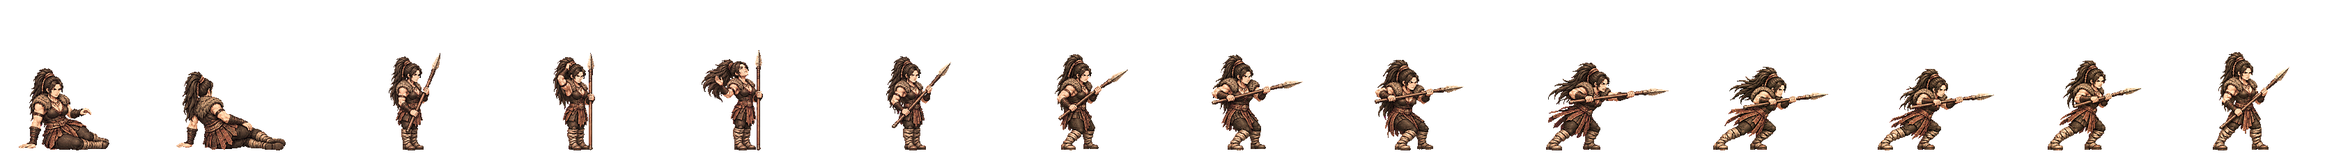
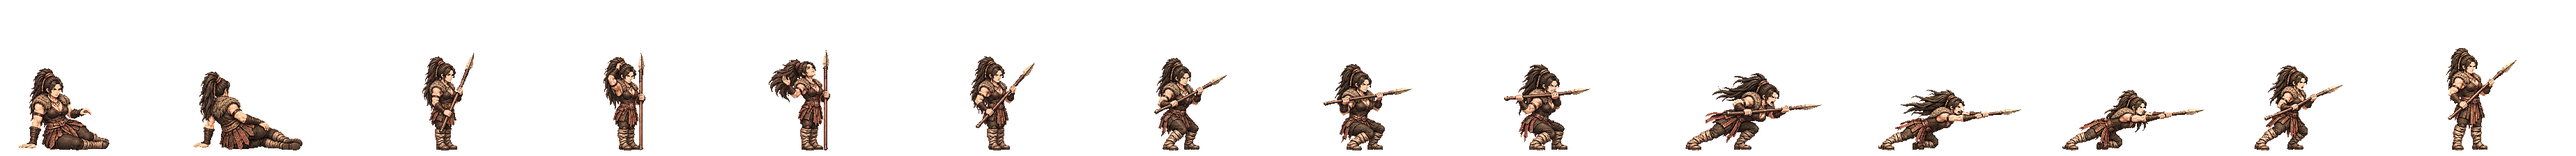
초팔 들메 창 찌르기를 새 인형으로 다시 · 걷기는 받은 그림 그대로
T11 · T12 를 받아 HEROES 에 src='thrust2', actw=264. 두 팔을 곧게 뻗은 찌름 · 앞발 여덟 칸 같은 자리(113~115). 끝 칸 키 147 로 서기 138 보다 조금 크다. 띠 검사 합격(경고: 서기 발 가운데 +21 · 걷기 윗몸 2.2% · 앞 여백 4px).

Claude-Session: https://claude.ai/code/session_01TRiuN7s6aDfSnaHxrkctmU

diff --git a/tools/sprite-kit/anim-harness.py b/tools/sprite-kit/anim-harness.py
@@ -47,13 +47,13 @@ HEROES = {
                   cells8=[('a', 1), ('a', 2), ('a', 3), ('a', 4), ('a', 4), ('a', 3), ('a', 2), ('a', 1)]),   # 해녀(작살) · 뒤 판 b 는 그림 도구가 거절 → 앞 판으로: 타격 = 넷째(a4) · wire-hero hit=3
     'huntress': dict(strip='gen-base-w-06-buyeo-huntress', atk='thrust', src='thrust2', actw=264, atk8=True, act=True, legacy=(('a', 2), ('a', 3), ('b', 3), ('b', 4))),   # 부여 사냥꾼(창)
     'dallae': dict(strip='gen-base-w-64-miri-dallae', atk='thrust', src='thrust2', actw=264, atk8=True, act=True, legacy=(('a', 2), ('a', 3), ('b', 3), ('b', 4))),   # 미리 군주 달래(창)
-    'ara': dict(strip='gen-ara', atk='slash', atk8=True, act=True, legacy=(('a', 1), ('a', 3), ('b', 2), ('b', 4))),   # 가야 검사 아라(한 손 칼) · 좁은 칸: 머리 위로 곧게 세운 a2 는 위가, 끝까지 벤 b1 은 앞이 넘친다
+    'ara': dict(atkk=1.05, strip='gen-ara', atk='slash', atk8=True, act=True, legacy=(('a', 1), ('a', 3), ('b', 2), ('b', 4))),   # 가야 검사 아라(한 손 칼) · 좁은 칸: 머리 위로 곧게 세운 a2 는 위가, 끝까지 벤 b1 은 앞이 넘친다
     'dtiger': dict(strip='gen-base-w-22-dongye-tiger-huntress', atk='thrust', src='thrust2', actw=264, atk8=True, act=True, legacy=(('a', 2), ('a', 3), ('b', 3), ('b', 4))),   # 동예 범 사냥꾼(창)
     'noeul': dict(strip='gen-noeul', atk='bow', atk8=False),   # 사로 노을(활)
     'sagong': dict(strip='gen-sagong', atk='thrust', atk8=True, act=True, legacy=(('a', 2), ('a', 3), ('b', 3), ('b', 4))),   # 사물 사공(두 손 노 · 찌르기)
     'songbi': dict(strip='gen-songbi', atk='bow', atk8=False),   # 비류나 송비(활)
     'sinneoul': dict(strip='gen-sinneoul', atk='thrust', atk8=True, act=True, legacy=(('a', 2), ('a', 3), ('b', 3), ('b', 4))),   # 신지 너울(두 손 갈고리 장대 · 가슴 XL)
-    'heo': dict(strip='gen-heo', atk='thrust', atk8=True, act=True, legacy=(('a', 2), ('a', 3), ('b', 3), ('b', 4))),   # 가락 허황옥(금빛 창 · 가슴 L)
+    'heo': dict(strip='gen-heo', atk='thrust', src='thrust2', actw=264, atk8=True, act=True, legacy=(('a', 2), ('a', 3), ('b', 3), ('b', 4))),   # 가락 허황옥(금빛 창 · 가슴 L)
     'mwarrior': dict(strip='gen-base-w-08-mahan-warrior', atk='thrust', atk8=True, act=True, legacy=(('a', 2), ('a', 3), ('b', 3), ('b', 4))),   # 마한 전사(창 · 우람한 뼈대)
     'whaleq': dict(strip='gen-base-w-23-usisan-whale-queen', atk='thrust', atk8=True, act=True, legacy=(('a', 2), ('a', 3), ('b', 3), ('b', 4))),   # 우시산 고래 여왕(미늘 작살 · 우람한 뼈대)
     'tomboy': dict(strip='gen-base-w-26-iseo-tomboy-general', atk='thrust', atk8=True, act=True, legacy=(('a', 2), ('a', 3), ('b', 3), ('b', 4))),   # 이서 말괄량이 장군(창 · 우람한 뼈대)
@@ -61,7 +61,7 @@ HEROES = {
     'tneoul': dict(strip='gen-tneoul', atk='thrust', atk8=True, act=True, legacy=(('a', 2), ('a', 3), ('b', 3), ('b', 4)), lock='face'),   # 탐라 너울(두 손 나무 노 · 가슴 L) · 머리 상자 묶기는 b-2 에서 얼굴 자리를 잘못 잡아 머리가 둘이 됐다(11-24) → 얼굴 안쪽만
     'baetsa': dict(strip='gen-base-w-76-gampyeong-baetsagong', atk='thrust', atk8=True, act=True, legacy=(('a', 2), ('a', 3), ('b', 3), ('b', 4))),   # 감평 뱃사공(두 손 나무 노 · 가슴 XL)
     'odi': dict(strip='gen-odi', atk='thrust', atk8=True, act=True, legacy=(('a', 2), ('a', 3), ('b', 3), ('b', 4))),   # 조문 오디(창 · 가슴 XL)
-    'deulme': dict(strip='gen-base-w-34-chopal-deulme', atk='thrust', atk8=True, act=True, legacy=(('a', 2), ('a', 3), ('b', 3), ('b', 4))),   # 초팔 들메(창 · 우람한 뼈대 · 가슴 L)
+    'deulme': dict(strip='gen-base-w-34-chopal-deulme', atk='thrust', src='thrust2', actw=264, atk8=True, act=True, legacy=(('a', 2), ('a', 3), ('b', 3), ('b', 4))),   # 초팔 들메(창 · 우람한 뼈대 · 가슴 L)
     'dana': dict(strip='gen-base-w-102-garak-dana', atk='bow', atk8=False),   # 가락 다나(활 · 가슴 XL)
     'maena': dict(strip='gen-base-w-36-baekje-maena', atk='bow', atk8=False),   # 백제 매나(활 · 가슴 L)
     'sogeum': dict(strip='gen-base-w-56-dongokjeo-sogeum', atk='slash', atk8=True, act=True, legacy=(('a', 1), ('a', 3), ('b', 2), ('b', 4))),   # 동옥저 소금 상인(단검 · 가슴 XL) · 좁은 칸은 아라처럼 덜 뻗은 칸
@@ -130,7 +130,7 @@ def attack(name):
     h = use(HEROES[name])
     for half in sorted({t for t, _ in cells8(h)}):
         src = h.get('src', h['atk'])   # 다시 그린 판(예: thrust2)은 src 로 가리킨다 — 굽는 이름은 그대로
-        run('bake-scene.py', 'attack4', f'{STD}/out-{name}-{src}-{half}.png', name, f'{h["atk"]}8-{half}', f'{STD}/scene-{name}-{src}-{half}.png', f'cw={ACT["cw"]}')
+        run('bake-scene.py', 'attack4', f'{STD}/out-{name}-{src}-{half}.png', name, f'{h["atk"]}8-{half}', f'{STD}/scene-{name}-{src}-{half}.png', f'cw={ACT["cw"]}', f'k={h.get("atkk", 1.0)}')
     ims = [Image.open(f'{PX}/{name}-{h["atk"]}8-{t}-{i}.png').convert('RGBA') for t, i in cells8(h)]
     z = 3
     row = Image.new('RGB', (ACT['cw'] * z * 4, ACT['ch'] * z * 2), BG)
